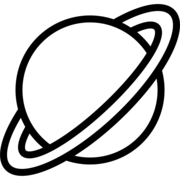
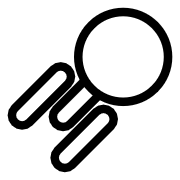
update socials

diff --git a/stars.js b/stars.js
@@ -5,6 +5,8 @@ const STAR_CONFIG = {
 };
 
 const STAR_SCRIPT_URL = import.meta.url;
+const RESIZE_DEBOUNCE_MS = 150;
+const MIN_VIEW_DELTA = 2;
 
 document.addEventListener("DOMContentLoaded", () => {
   const canvas = document.getElementById("warp-canvas");
@@ -30,18 +32,19 @@ function setupWorkerStarfield(canvas) {
     const worker = new Worker(workerUrl, { type: "module" });
     const offscreen = canvas.transferControlToOffscreen();
 
-    const sendResize = () => {
+    const dispatcher = createResizeDispatcher(view => {
       worker.postMessage({
         type: "resize",
-        width: window.innerWidth,
-        height: window.innerHeight,
-        dpr: window.devicePixelRatio || 1
+        width: view.width,
+        height: view.height,
+        dpr: view.dpr
       });
-    };
+    });
 
     worker.postMessage({ type: "init", canvas: offscreen, config: STAR_CONFIG }, [offscreen]);
-    sendResize();
-    window.addEventListener("resize", sendResize);
+    dispatcher.flush();
+    window.addEventListener("resize", dispatcher.queue, { passive: true });
+    window.addEventListener("orientationchange", dispatcher.resetAndQueue, { passive: true });
     window.addEventListener("beforeunload", () => worker.terminate());
     return true;
   } catch (error) {
@@ -58,12 +61,13 @@ function startInlineStarfield(canvas) {
 
   const engine = createStarfieldEngine(ctx, STAR_CONFIG);
 
-  const handleResize = () => {
-    engine.resize(window.innerWidth, window.innerHeight, window.devicePixelRatio || 1);
-  };
+  const dispatcher = createResizeDispatcher(view => {
+    engine.resize(view.width, view.height, view.dpr);
+  });
 
-  window.addEventListener("resize", handleResize);
-  handleResize();
+  window.addEventListener("resize", dispatcher.queue, { passive: true });
+  window.addEventListener("orientationchange", dispatcher.resetAndQueue, { passive: true });
+  dispatcher.flush();
 
   let lastTime = performance.now();
   function animate(now) {
@@ -74,4 +78,55 @@ function startInlineStarfield(canvas) {
   }
 
   requestAnimationFrame(animate);
+}
+
+function readViewport() {
+  const vv = window.visualViewport;
+  const width = vv && vv.width ? vv.width : window.innerWidth;
+  const height = vv && vv.height ? vv.height : window.innerHeight;
+  return {
+    width: Math.round(width || 0),
+    height: Math.round(height || 0),
+    dpr: window.devicePixelRatio || 1
+  };
+}
+
+function createResizeDispatcher(onChange) {
+  let last = { width: 0, height: 0, dpr: 0 };
+  let timer = null;
+
+  const emit = () => {
+    timer = null;
+    const next = readViewport();
+    const widthDelta = Math.abs(next.width - last.width);
+    const heightDelta = Math.abs(next.height - last.height);
+    const dprChanged = next.dpr !== last.dpr;
+    if (widthDelta < MIN_VIEW_DELTA && heightDelta < MIN_VIEW_DELTA && !dprChanged) {
+      return;
+    }
+    last = next;
+    onChange(next);
+  };
+
+  const queue = () => {
+    if (timer) {
+      clearTimeout(timer);
+    }
+    timer = setTimeout(emit, RESIZE_DEBOUNCE_MS);
+  };
+
+  const resetAndQueue = () => {
+    last = { width: 0, height: 0, dpr: 0 };
+    queue();
+  };
+
+  const flush = () => {
+    if (timer) {
+      clearTimeout(timer);
+      timer = null;
+    }
+    emit();
+  };
+
+  return { queue, resetAndQueue, flush };
 }

diff --git a/gridBackgrounds.js b/gridBackgrounds.js
@@ -11,6 +11,9 @@ const GRID_SETTINGS = {
   }
 };
 
+const RESIZE_DEBOUNCE_MS = 140;
+const MIN_SIZE_DELTA = 2;
+
 document.addEventListener("DOMContentLoaded", () => {
   const renderers = [setupRectGrid(), setupRadialGrid()].filter(Boolean);
   if (!renderers.length) {
@@ -20,16 +23,19 @@ document.addEventListener("DOMContentLoaded", () => {
   const drawAll = () => renderers.forEach(draw => draw());
   drawAll();
 
-  let resizeHandle = null;
-  window.addEventListener("resize", () => {
-    if (resizeHandle) {
-      return;
+  let resizeTimer = null;
+  const queueResize = () => {
+    if (resizeTimer) {
+      clearTimeout(resizeTimer);
     }
-    resizeHandle = requestAnimationFrame(() => {
-      resizeHandle = null;
+    resizeTimer = setTimeout(() => {
+      resizeTimer = null;
       drawAll();
-    });
-  });
+    }, RESIZE_DEBOUNCE_MS);
+  };
+
+  window.addEventListener("resize", queueResize, { passive: true });
+  window.addEventListener("orientationchange", queueResize, { passive: true });
 });
 
 function setupRectGrid() {
@@ -46,7 +52,7 @@ function setupRectGrid() {
 
   return () => {
     const dims = resizeCanvasForHost(canvas, host);
-    if (!dims) {
+    if (!dims || dims.unchanged) {
       return;
     }
 
@@ -99,7 +105,7 @@ function setupRadialGrid() {
 
   return () => {
     const dims = resizeCanvasForHost(canvas, host);
-    if (!dims) {
+    if (!dims || dims.unchanged) {
       return;
     }
 
@@ -159,12 +165,25 @@ function resizeCanvasForHost(canvas, host) {
   }
 
   const dpr = window.devicePixelRatio || 1;
+  const lastWidth = canvas.__lastWidth || 0;
+  const lastHeight = canvas.__lastHeight || 0;
+  const lastDpr = canvas.__lastDpr || 0;
+  const widthChange = Math.abs(width - lastWidth);
+  const heightChange = Math.abs(height - lastHeight);
+
+  if (widthChange < MIN_SIZE_DELTA && heightChange < MIN_SIZE_DELTA && dpr === lastDpr) {
+    return { width: lastWidth || width, height: lastHeight || height, dpr, unchanged: true };
+  }
+
   canvas.width = width * dpr;
   canvas.height = height * dpr;
   canvas.style.width = `${width}px`;
   canvas.style.height = `${height}px`;
+  canvas.__lastWidth = width;
+  canvas.__lastHeight = height;
+  canvas.__lastDpr = dpr;
 
-  return { width, height, dpr };
+  return { width, height, dpr, unchanged: false };
 }
 
 function prepareContext(ctx, dims) {
@@ -265,4 +284,3 @@ function distributeCounts(spans, total) {
 
   return baseCounts;
 }
-const maxStep = i === spans.length - 1 ? segments - 1 : segmenmaxStep

diff --git a/index.html b/index.html
@@ -37,12 +37,20 @@
                     <img src="icon.png"b />
                     <div class="icon-text">
                         <p><a href="mailto:jsn@ucsd.edu">jsn@ucsd.edu</a></p>
-                        <p><a href="https://bsky.app/profile/jayke.io">@AstroJayke</a></p>
+                        <div class="social-media-icons-bar">
+                            <div class="social-media-icon"><a href="https://bsky.app/profile/jayke.io"><img  src="icons/Bluesky_Logo.svg"/></a></div>
+                            <div class="social-media-icon"><a href="https://x.com/AstroJayke"><img  src="icons/Logo_of_Twitter.svg"/></a></div>
+                            <div class="social-media-icon"><a href="https://github.com/jsnguyen"><img  src="icons/github-mark-white.svg"/></a></div>
+                            </div>
+                        <div class="social-media-icons-bar">
+                            <div class="social-media-icon"><a href="https://letterboxd.com/hawtshawt/"><img  src="icons/letterboxd-decal-dots-pos-rgb.svg"/></a></div>
+                            <div class="social-media-icon"><a href="https://instagram.com/jayketakes/"><img  src="icons/Instagram_logo_2022.svg"/></a></div>
+                        </div>
                     </div>
                 </div>
                 <div class="intro-text">
-                    <h1> <div class="blinking-line"> Hi, I'm Jayke Samson Nguyen </div> </h1>
-                    <p> Ph.D. Candidate @ <a href="https://astro.ucsd.edu/"> UCSD A&A Department </a></p>
+                    <h1> <div class="blinking-line"> Hi! I'm Jayke Samson Nguyen </div> </h1>
+                    <p> 5th Year PhD Candidate @ <a href="https://astro.ucsd.edu/"> UCSD A&A Department </a></p>
                     <br>
                     <p> I study exoplanets and protoplanetary disks through ground-based direct imaging. I'm an instrumentalist by trade working on the full stack of high-contrast imaging with adaptive optics; both building and using the instruments and developing post-processing techniques for analyzing the data. I also work on the <a href="http://planetimager.org/">Gemini Planet Imager 2.0</a>.
                     <br>

diff --git a/styles.css b/styles.css
@@ -25,7 +25,7 @@ body {
 
 a {
     color: white;
-    text-decoration: none;
+    text-decoration: underline;
 }
 
 a:visited {
@@ -87,19 +87,6 @@ header h1 {
 
 main {
     margin-top: 20px;
-}
-
-.targetplotter-page main {
-    min-height: 100vh;
-    display: flex;
-    align-items: center;
-    justify-content: center;
-    padding: 40px 20px;
-}
-
-.targetplotter-page .pyscript-card {
-    max-width: 960px;
-    width: min(90vw, 960px);
 }
 
 section h2 {
@@ -192,6 +179,7 @@ header {
     background-color: rgba(157, 157, 157, 0.612);
     padding: 20px;
     transition: transform 0.3s ease, box-shadow 0.3s ease;
+    text-decoration: none;
 }
 
 .code-project-card p {
@@ -266,10 +254,10 @@ header {
 
 .back-button {
     position: absolute;
-    top: 16px;
-    left: 16px;
-    width: 52px;
-    height: 52px;
+    top: 10px;
+    left: 10px;
+    width: 50px;
+    height: 50px;
     border-radius: 50%;
     background-color: rgb(159, 159, 159);
     padding: 0;
@@ -329,6 +317,24 @@ input[type="text"] {
     width: auto;
     height: auto;
     object-fit: contain;
+}
+
+.social-media-icon {
+    width: 32px;
+    height: 32px;
+}
+
+.social-media-icon:hover {
+    transform: scale(1.1);
+    transition: transform 0.2s ease-in-out;
+}
+
+.social-media-icons-bar {
+    display: flex;
+    flex-direction: row;
+    justify-content: center;
+    gap: 12px;
+    margin-top: 8px;
 }
 
 @keyframes fadeIn {

diff --git a/targetplotter/index.html b/targetplotter/index.html
@@ -43,12 +43,11 @@
         <div class="pyscript-card glass-card">
 
             <a href="../index.html" class="back-button" aria-label="Back to home">
-                <span>&larr;</span>
+                <img src="../icons/arrow_back_30dp_E3E3E3_FILL0_wght400_GRAD0_opsz24.svg" alt="Back Arrow" />
             </a>
 
             <div class="pyscript-card-header">
                 <h2>Target Plotter</h2>
-                <p> Note: the visibility is according to the limits on the Keck II telescope. </p>
             </div>
 
             <div class="display-container loading">
@@ -115,6 +114,8 @@
                         <input type="text" id="lon_input" placeholder="-155.4742" value="-155.4742"/>
                     </div>
                 </div>
+
+                <p> Note: the visibility is according to the limits on the Keck II telescope. </p>
 
             </div>
         </div>

diff --git a/starfieldEngine.js b/starfieldEngine.js
@@ -15,8 +15,8 @@ export const DEFAULT_CONFIG = {
     { offset: 0.5, alpha: 0.5 },
     { offset: 1, alpha: 1 }
   ],
-  maskInnerRadius: 200,
-  maskOuterRadius: 500,
+  maskInnerRadius: 100,
+  maskOuterRadius: 300,
   maskInnerAlpha: 1.0,
   maskOuterAlpha: 0.0,
   maskInnerScaleX: null,
@@ -86,7 +86,7 @@ export function createStarfieldEngine(ctx, customConfig = {}) {
     draw() {
       const gradient = ctx.createLinearGradient(this.startX, this.startY, this.x, this.y);
       (config.fadeStops || []).forEach(stop => {
-        gradient.addColorStop(stop.offset, `hsla(${this.hue},95%,65%,${stop.alpha})`);
+        gradient.addColorStop(stop.offset, `hsla(${this.hue},99%,65%,${stop.alpha})`);
       });
       ctx.strokeStyle = gradient;
       ctx.lineWidth = this.lineWidth;
